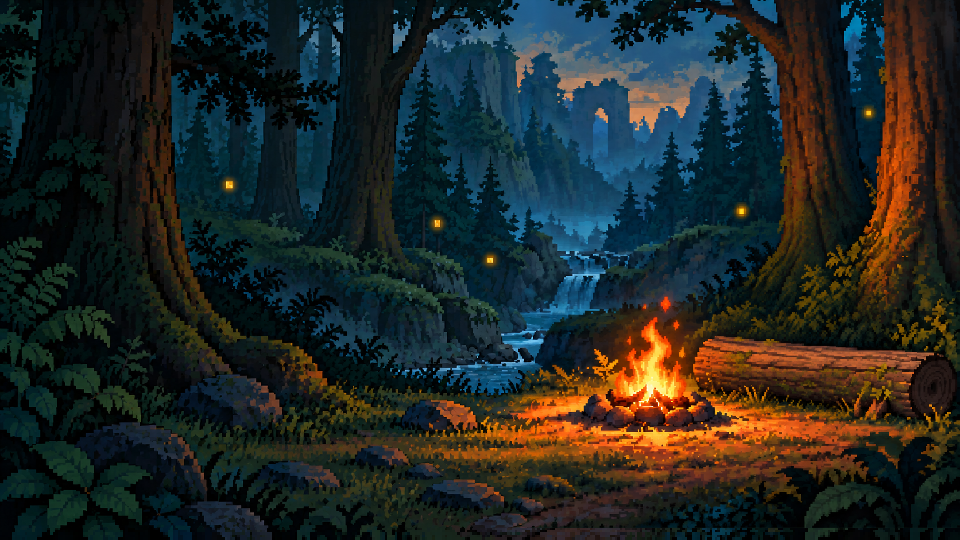
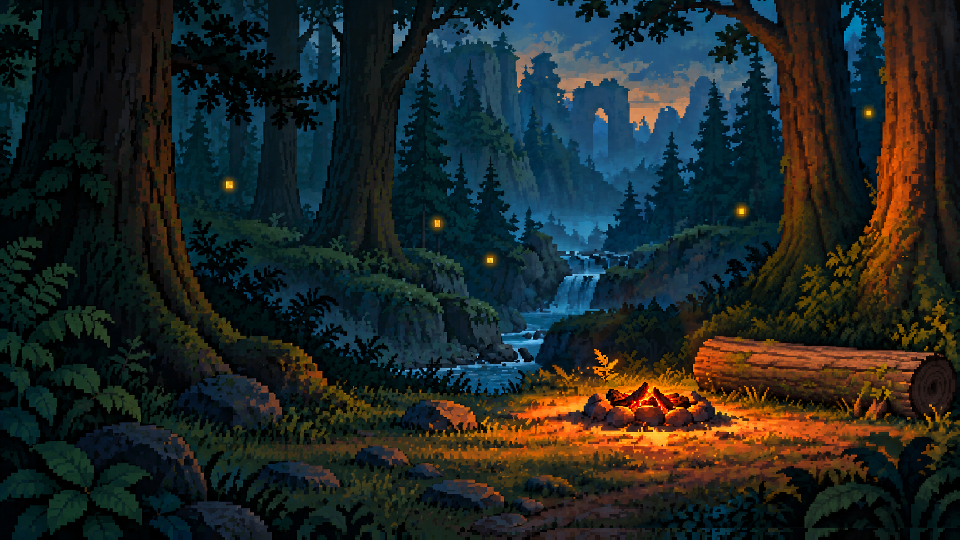
Fix camp fire seam and mushroom edges; interact with whole logs

Changed region(s): [[0.625, 0.5333, 0.75, 0.7704]]

diff --git a/src/world/MeadowWorld.ts b/src/world/MeadowWorld.ts
@@ -1,6 +1,6 @@
 import { FALLEN_LOG_GENERATION } from '../data/fallenLogs';
 import { drawFallenLog } from '../rendering/fallenLogArt';
-import { mushroomPoint, logCollisionRects } from './fallenLogs';
+import { distanceToLog, logCollisionRects } from './fallenLogs';
 import Phaser from 'phaser';
 import { Wolf } from '../entities/Wolf';
 import type { Druid } from '../entities/Druid';
@@ -74,19 +74,18 @@ export class MeadowWorld {
     });
   }
 
-  /** One press collects one nearest reachable mushroom; the layout is the save state. */
+  /** The log is the interaction target; mushroom sprite positions never limit reach. */
   collectMushroom(point: Point) {
     if (this.player?.dead) return false;
-    let nearest: { logIndex: number; mushroomIndex: number; slot: number } | undefined;
-    let distance: number = FALLEN_LOG_GENERATION.interactionRadius;
-    (this.layout.logs ?? []).forEach((log, logIndex) => log.mushrooms.forEach((m, mushroomIndex) => {
-      const p = mushroomPoint(log, m), current = Math.hypot(point.x-p.x, point.y-p.y);
-      if (current <= distance) { distance=current; nearest={logIndex,mushroomIndex,slot:m.slot}; }
-    }));
-    if (!nearest) return false;
-    const { logIndex, mushroomIndex, slot } = nearest;
-    this.layout.logs![logIndex].mushrooms.splice(mushroomIndex,1);
-    const imageIndex = this.logArt.findIndex(image=>image.getData('logIndex')===logIndex&&image.getData('mushroomSlot')===slot);
+    let logIndex = -1, distance: number = FALLEN_LOG_GENERATION.interactionRadius;
+    (this.layout.logs ?? []).forEach((log, index) => {
+      if (!log.mushrooms.length) return;
+      const current = distanceToLog(log,point);
+      if (current <= distance) { distance=current; logIndex=index; }
+    });
+    if (logIndex < 0) return false;
+    const mushroom = this.layout.logs![logIndex].mushrooms.shift()!;
+    const imageIndex = this.logArt.findIndex(image=>image.getData('logIndex')===logIndex&&image.getData('mushroomSlot')===mushroom.slot);
     if (imageIndex >= 0) this.logArt.splice(imageIndex,1)[0].destroy();
     return true;
   }

diff --git a/src/scenes/RoomScene.ts b/src/scenes/RoomScene.ts
@@ -103,7 +103,7 @@ export class RoomScene extends Phaser.Scene {
       up: Phaser.Input.Keyboard.KeyCodes.UP, down: Phaser.Input.Keyboard.KeyCodes.DOWN,
       left: Phaser.Input.Keyboard.KeyCodes.LEFT, right: Phaser.Input.Keyboard.KeyCodes.RIGHT,
     }) as MovementKeys;
-    const captureArrowTap = (event: KeyboardEvent) => {
+    const handleKeyDown = (event: KeyboardEvent) => {
       if(this.gameOver)return;
       if (event.code === 'KeyE') {
         if (!event.repeat) this.world.collectMushroom((this.player.body as Phaser.Physics.Arcade.Body).center);
@@ -114,7 +114,7 @@ export class RoomScene extends Phaser.Scene {
       this.queuedAttack = facingFromVector(Number(arrows.right.isDown) - Number(arrows.left.isDown),
         Number(arrows.down.isDown) - Number(arrows.up.isDown));
     };
-    keyboard.on('keydown', captureArrowTap);
+    keyboard.on('keydown', handleKeyDown);
     // Arcade syncs sprite coordinates in post-update; sample grass after that sync.
     const updateGrass = (_time: number, delta: number) => {
       if(this.gameOver)return;
@@ -141,7 +141,7 @@ export class RoomScene extends Phaser.Scene {
       this.events.off(Phaser.Scenes.Events.POST_UPDATE, updateGrass);
       this.game.events.off(Phaser.Core.Events.BLUR, resetInput);
       this.scale.off(Phaser.Scale.Events.RESIZE, resize);
-      keyboard.off('keydown', captureArrowTap);
+      keyboard.off('keydown', handleKeyDown);
     });
   }
 

diff --git a/src/rendering/fallenLogArt.ts b/src/rendering/fallenLogArt.ts
@@ -1,10 +1,10 @@
 import Phaser from 'phaser';
 import { FALLEN_LOGS, LOG_MUSHROOMS } from '../data/fallenLogs';
 import { mushroomPoint, type FallenLogPlacement } from '../world/fallenLogs';
-const sources=import.meta.glob<string>('../../docs/art/fallen-logs-{v1,v2}/{log,mushroom}-*.png',
+const sources=import.meta.glob<string>('../../docs/art/{fallen-logs-v2,log-mushrooms-v2}/{log,mushroom}-*.png',
   {eager:true,query:'?url',import:'default'});
 export const FALLEN_LOG_ART=[...FALLEN_LOGS,...LOG_MUSHROOMS].map(art=>({
-  key:art.id,url:sources[`../../docs/art/fallen-logs-${art.id.startsWith('log-') ? 'v2' : 'v1'}/${art.file}`],
+  key:art.id,url:sources[`../../docs/art/${art.id.startsWith('log-') ? 'fallen-logs-v2' : 'log-mushrooms-v2'}/${art.file}`],
 }));
 export function drawFallenLog(scene: Phaser.Scene, log: FallenLogPlacement, index:number) {
   const art=FALLEN_LOGS[log.variant], depth=log.y+12;

diff --git a/src/world/fallenLogs.ts b/src/world/fallenLogs.ts
@@ -60,6 +60,14 @@ export function logCollisionRects(log: FallenLogPlacement): Rect[] {
     width:radius*2,height:radius*2,
   }));
 }
+/** Distance to the wood as a whole, independent of where its mushrooms grow. */
+export function distanceToLog(log: FallenLogPlacement, point: { x: number; y: number }) {
+  return Math.min(...logCollisionRects(log).map(rect => Math.hypot(
+    Math.max(rect.x-point.x,0,point.x-rect.x-rect.width),
+    Math.max(rect.y-point.y,0,point.y-rect.y-rect.height),
+  )));
+}
+
 export function generateFallenLogs(layout: MeadowLayout, trunks: readonly Rect[], canopies: readonly Rect[]): FallenLogPlacement[] {
   const random = seededRandom(layout.seed ^ 0x4c4f4753);
   const integer = (min:number,max:number)=>min+Math.floor(random()*(max-min+1));

diff --git a/src/rendering/CampAtmosphere.ts b/src/rendering/CampAtmosphere.ts
@@ -1,5 +1,5 @@
 import Phaser from 'phaser';
-import fireUrl from '../../docs/art/selection-camp-uploaded-flame-v1/fire-frames.png';
+import fireUrl from '../../docs/art/selection-camp-seam-v1/fire-frames.png';
 import waterUrl from '../../docs/art/selection-camp-seam-v1/water-frames.png';
 import cleanUrl from '../../docs/art/selection-camp-atmosphere-v1/firefly-clean-patches.png';
 import { CAMP_ATMOSPHERE as CONFIG, fireflyPosition } from '../data/campAtmosphere';

diff --git a/src/data/fallenLogs.ts b/src/data/fallenLogs.ts
@@ -1,5 +1,5 @@
 import art from '../../docs/art/fallen-logs-v2/sprites.json';
-import original from '../../docs/art/fallen-logs-v1/sprites.json';
+import original from '../../docs/art/log-mushrooms-v2/sprites.json';
 
 export const FALLEN_LOGS = art.logs;
 export const LOG_MUSHROOMS = original.mushrooms.map(sprite => ({

diff --git a/scripts/prepare-camp-seam.py b/scripts/prepare-camp-seam.py
@@ -3,6 +3,7 @@ from pathlib import Path
 import json
 import numpy as np
 from PIL import Image
+from scipy.ndimage import distance_transform_edt
 ROOT=Path(__file__).resolve().parents[1]
 OUT=ROOT/'docs/art/selection-camp-seam-v1'
 old=np.array(Image.open(ROOT/'docs/art/selection-camp-atmosphere-v1/environment-reference.png').convert('RGBA'))
@@ -15,6 +16,30 @@ for x in range(503,554):
 # The obsolete plate footer is not part of the forest: keep the original full-height ground.
 base=Image.open(ROOT/'src/assets/selection-camp.png').convert('RGBA').resize((384,216),Image.Resampling.NEAREST).resize((960,540),Image.Resampling.NEAREST)
 result[528:]=np.array(base)[528:]
+# Fade the old static flame-removal repair into the rock instead of exposing
+# its sharp perimeter as a horizontal patch. Imported flame pixels stay exact.
+fire_folder=ROOT/'docs/art/selection-camp-uploaded-flame-v1'
+fire_reference=np.array(Image.open(fire_folder/'fire-reference.png').convert('RGBA'))
+old_clean=np.array(Image.open(fire_folder/'fire-base.png').convert('RGBA'))
+# Soften the perimeter of the existing reconstruction rather than cutting a
+# rectangle into the rock. Keep the accepted coals/logs below row 125 exact.
+changed=np.any(old_clean!=fire_reference,axis=2)
+weight=np.minimum(1,distance_transform_edt(changed)/12)
+weight[125:]=changed[125:]
+fire_area=result[282:430,584:712]
+fire_area[:]=np.rint(fire_area.astype(float)*(1-weight[:,:,None])+old_clean.astype(float)*weight[:,:,None]).astype('uint8')
+Image.fromarray(np.rint(weight*255).astype('uint8')).save(OUT/'fire-clean-mask.png')
+Image.fromarray(fire_area).save(OUT/'fire-base.png',optimize=True)
+Image.fromarray(fire_area).save(OUT/'fire-reference.png',optimize=True)
+# The accepted imported flame is independent of the background reconstruction.
+flames=Image.open(fire_folder/'flame-only-frames.png').convert('RGBA')
+fire_frames=Image.new('RGBA',flames.size)
+for frame in range(37):
+ x=frame%8*128;y=frame//8*148
+ cell=Image.fromarray(fire_area).copy()
+ cell.alpha_composite(flames.crop((x,y,x+128,y+148)))
+ fire_frames.paste(cell,(x,y))
+fire_frames.save(OUT/'fire-frames.png',optimize=True)
 Image.fromarray(result).save(OUT/'background.png',optimize=True)
 # Preserve the accepted flow and timing; its opaque rectangle must share the repaired background.
 folder=ROOT/'docs/art/selection-water-flow-v2'
@@ -27,4 +52,4 @@ for y in range(0,frames.shape[0],142):
   frames[y:y+142,x:x+204]=np.clip(original+new_reference.astype('int16')-reference.astype('int16'),0,255).astype('uint8')
 Image.fromarray(new_reference).save(OUT/'water-reference.png',optimize=True)
 Image.fromarray(frames).save(OUT/'water-frames.png',optimize=True)
-(OUT/'art.json').write_text(json.dumps({'size':[960,540],'repairColumns':[503,553],'seamX':525,'footerRestoredFromY':528,'water':'accepted v2 deltas, unchanged cadence and masks','characterAndStaff':'separate, unchanged'},indent=2)+'\n')
+(OUT/'art.json').write_text(json.dumps({'size':[960,540],'repairColumns':[503,553],'seamX':525,'footerRestoredFromY':528,'water':'accepted v2 deltas, unchanged cadence and masks','fire':'accepted flame-only frames over a feathered static cleanup, exact coals/logs, no hard rock-patch edge','characterAndStaff':'separate, unchanged'},indent=2)+'\n')

diff --git a/scripts/prepare-log-mushroom-edges.py b/scripts/prepare-log-mushroom-edges.py
@@ -1,0 +1,40 @@
+"""Remove only the beige JPEG matte on the outer caps of two violet mushrooms.
+Keep white stems, red-cap dots, pale mint outlines and all retained RGB exact.
+"""
+from pathlib import Path
+import json
+import numpy as np
+from PIL import Image, ImageDraw
+from scipy.ndimage import binary_fill_holes, distance_transform_edt
+ROOT=Path(__file__).resolve().parents[1]
+OLD=ROOT/'docs/art/fallen-logs-v1'
+OUT=ROOT/'docs/art/log-mushrooms-v2'
+OUT.mkdir(exist_ok=True)
+original=json.loads((OLD/'sprites.json').read_text())
+report=[]
+for index,art in enumerate(original['mushrooms']):
+ data=np.array(Image.open(OLD/art['file']).convert('RGBA'))
+ opaque=data[:,:,3]>0
+ exterior=~binary_fill_holes(np.pad(opaque,1))[1:-1,1:-1]
+ distance=distance_transform_edt(np.pad(~exterior,1))[1:-1,1:-1]
+ rgb=data[:,:,:3].astype(float)
+ yy,xx=np.indices(opaque.shape)
+ remove=np.zeros_like(opaque)
+ if index in (2,4):
+  pale=(np.ptp(rgb,axis=2)<55)&(rgb.mean(2)>140)
+  cap=yy<(32 if index==2 else 40)
+  remove=opaque&pale&cap&(distance<=3)
+ data[:,:,3][remove]=0
+ # RGB is preserved even beneath alpha, so reverting the mask is lossless.
+ Image.fromarray(data).save(OUT/art['file'],optimize=True)
+ Image.fromarray(remove.astype('uint8')*255).save(OUT/f"{art['id']}-removed.png")
+ art['originalRetainedPixels']=art['retainedPixels']
+ art['retainedPixels']=int((data[:,:,3]>0).sum())
+ report.append({'id':art['id'],'removed':int(remove.sum()),'capOnly':index in (2,4),'maxExteriorDepth':3})
+(OUT/'sprites.json').write_text(json.dumps({'mushrooms':original['mushrooms'],'cleanup':report},ensure_ascii=False,indent=2)+'\n')
+preview=Image.new('RGB',(1000,200),(34,61,41));draw=ImageDraw.Draw(preview)
+for index,art in enumerate(original['mushrooms']):
+ sprite=Image.open(OUT/art['file']);sprite=sprite.resize((sprite.width*2,sprite.height*2),Image.Resampling.NEAREST)
+ x=10+index*140;preview.paste(sprite,(x,25),sprite);draw.text((x,5),art['id'],fill='white')
+preview.save(OUT/'collection.png')
+print(report)

diff --git a/docs/art/fallen-logs-v2/README.md b/docs/art/fallen-logs-v2/README.md
@@ -4,10 +4,10 @@
 
 Пять рисунков доработаны по исходным брёвнам v1 с разрешённой перерисовкой коры и мха. Убрана серая подложка. Это художественная доработка, а не точная пиксельная копия исходного референса. `refined-source.png` сохраняет промежуточный рисунок; `scripts/prepare-refined-logs.py` выделяет пять объектов и собирает отдельные PNG с бинарной прозрачностью, NEAREST и сеткой **2 мировые единицы на пиксель**. Ширина уменьшена до **2/3** прежней, округление не больше одной мировой единицы. Исходные v1 сохранены.
 
-`sprites.json` хранит размеры, общий масштаб, линии столкновения и полигон поверхности для случайных грибов. Три старые точки оставлены для прежних сейвов. Грибы взяты из v1, их масштаб тоже уменьшен до 2/3. Повороты и отражение отключены, в том числе при продолжении старого забега. Позиции и виды грибов в сейве сохраняются.
+`sprites.json` хранит размеры, общий масштаб, линии столкновения и полигон поверхности для случайных грибов. Три старые точки оставлены для прежних сейвов. Грибы используют вырезки с очищенной каймой из `../log-mushrooms-v2/`, их масштаб тоже уменьшен до 2/3. Повороты и отражение отключены, в том числе при продолжении старого забега. Позиции и виды грибов в сейве сохраняются.
 
 Сейчас включена тестовая раскладка: **4 разных бревна из пяти вокруг старта**, центры ±220/±135, разброс ±12/±10. На первом гарантированы **1–3 гриба**, у остальных **50% шанс** на 1–3 одного вида из семи. Точки случайны в `mushroomSurface`, с расстоянием ≥6 native-пикселей и разницей x ≥4. Три гриба не стоят на одной прямой. Участки свободны от крон; деревьев **70–99**.
 
-`E` собирает один ближайший гриб до 44 мировых единиц от центра тела, без автоповтора и контакта. Результат сохраняется в планировке, без инвентаря/счётчиков. Старые записи без координат используют прежний `slot`.
+`E` выбирает ближайшее бревно с грибами: до 44 мировых единиц от центра тела до древесины, с любого конца/стороны и независимо от координат грибов. Одно нажатие убирает один гриб, без автоповтора и контакта. Результат сохраняется в планировке, без инвентаря/счётчиков. Старые записи без координат используют прежний `slot`.
 
 `FALLEN_LOG_GENERATION.testAroundSpawn=false` возвращает **2–4 бревна по миру**, шанс грибов 50% у каждого. Коллизии древесины общие для героя, животных и желудей. Сохранённые позиции не меняются; новая раскладка появляется в новом забеге/R.

diff --git a/docs/project-notes.md b/docs/project-notes.md
@@ -2,7 +2,14 @@
 
 Эти заметки сохраняют контекст обсуждения. Перечисленные планы не означают, что они уже реализованы или должны выполняться без нового запроса пользователя.
 
-## Сбор грибов и исправления (текущее)
+## Шов костра, кайма грибов и взаимодействие с бревном (текущее)
+
+- Горизонтальный стык над костром был краем прежнего восстановления фона под пламенем. `prepare-camp-seam.py` вписывает эту неподвижную подложку в единый фон с переходом 12 пикселей по исходному контуру. Камни/угли ниже local y=125 сохранены точно. `selection-camp-seam-v1/fire-frames.png` собран из тех же 37 `flame-only` кадров: масштаб, 18,75 FPS, позиция прежние. Вода согласована с фоном, её течение прежнее.
+- JPEG-кайма очищена у шляпок `mushroom-2` (63 пикселя) и `mushroom-4` (211). Активные PNG в `log-mushrooms-v2/`; первые вырезки сохранены. Только alpha внешней бледной каймы, до 3 native-пикселей от наружного фона. RGB оставшегося рисунка, белые ножки, точки мухоморов, мятная модель и другие пять грибов неизменны. Размеры/масштаб/крепления прежние.
+- Уточнение пользователя: цель взаимодействия — **бревно целиком**, не гриб. E выбирает ближайшее бревно с оставшимися грибами по расстоянию от центра тела до его древесины (объединение коллизионных прямоугольников), до 44 единиц. Доступно с любой стороны, включая свободный конец вдали от грибов. Одно нажатие убирает один гриб, без автоповтора. Сохранение и отсутствие инвентаря прежние.
+- Тестовая генерация не менялась: четыре разных бревна у старта; на первом 1–3 гриба гарантированы, у остальных шанс 50% на 1–3 одного вида. Деревья 70–99.
+
+## Сбор грибов и исправления (предыдущая версия)
 
 - Вправо сохранены шаги и принятый верх до y=220. Маска плаща не удаляет тёплые оттенки внутри сапога. Под подолом оставлен правый слой штанов в месте, где у левого донора нога была закрыта своим плащом: прозрачный вырез не образуется. Ступни и темп прежние.
 - Шов выбора персонажа в x=525 исправлен в `selection-camp-seam-v1/`: единое окружение вместо прямоугольной правой накладки, локальная доработка столбцов 503–553. Остальные пиксели сохранены, старый плоский футер с y=528 заменён прежней землёй. Вода сохраняет прежние дельты/темп на исправленной подложке. Сидящий друид, посох, огонь, вода и светлячки отдельны.

diff --git a/README.md b/README.md
@@ -31,7 +31,7 @@ npm run dev
 
 Пока включена тестовая раскладка: **четыре разных бревна из пяти вокруг старта**, примерно ±220 единиц по горизонтали и ±135 по вертикали, с разбросом ±12/±10. Их небольшие участки свободны от крон; деревьев по-прежнему **70–99**. На первом бревне гарантированы **1–3 гриба одного вида**, у остальных шанс грибов **50%**, при успехе тоже 1–3. Один вид выбирается из семи. Точки случайны на древесине, с промежутками, без фиксированного ряда.
 
-**E — собрать ближайший гриб** до 44 игровых единиц от центра тела. Касаться бревна необязательно. Одно нажатие убирает один гриб; удержание не повторяет сбор. Пока нет счётчика, инвентаря или бонусов. Сбор сохраняется при Esc → «Продолжить».
+**E — взаимодействовать с ближайшим бревном, на котором остались грибы.** Достаточно подойти с любой стороны: до 44 игровых единиц от центра тела до древесины. Расстояние до самих грибов не учитывается; касаться бревна необязательно. Одно нажатие убирает один гриб; удержание не повторяет сбор. Пока нет счётчика, инвентаря или бонусов. Сбор сохраняется при Esc → «Продолжить».
 
 Брёвна уменьшены примерно на треть, без серой тени, поворотов и отражения; сетка — 2 игровые единицы на пиксель. Они блокируют движение и желуди, учитываются в маршрутах животных. Для новой тестовой раскладки после обновления нажмите **R**: сохранённые позиции не переставляются. `testAroundSpawn: false` в `src/data/fallenLogs.ts` позже вернёт обычную генерацию 2–4 брёвен по миру.
 

diff --git a/docs/art/selection-camp-seam-v1/README.md b/docs/art/selection-camp-seam-v1/README.md
@@ -7,3 +7,5 @@
 `water-reference.png` и `water-frames.png` используют исправленную подложку и все прежние дельты анимации из `selection-water-flow-v2`, чтобы локальный прямоугольник воды не возвращал старый шов. Маски, русло, 144 кадра и 24 FPS прежние. Пламя и светлячки не переделывались.
 
 Подготовка: `python scripts/prepare-camp-seam.py` (Pillow, NumPy). Игра переключает готовые кадры; изображения не пересчитываются во время игры.
+
+Горизонтальный стык над костром тоже исправлен: прежняя подложка удаления пламени вписана в фон с переходом по внешнему контуру в 12 пикселей. Камни/угли с local y=125 сохранены точно. `fire-clean-mask.png` хранит веса перехода, `fire-base.png`/`fire-reference.png` — соответствующий участок фона. `fire-frames.png` содержит те же 37 принятых слоёв пламени поверх него; позиция, масштаб и 18,75 FPS прежние. Вода пересобрана на согласованном фоне с прежними дельтами.
